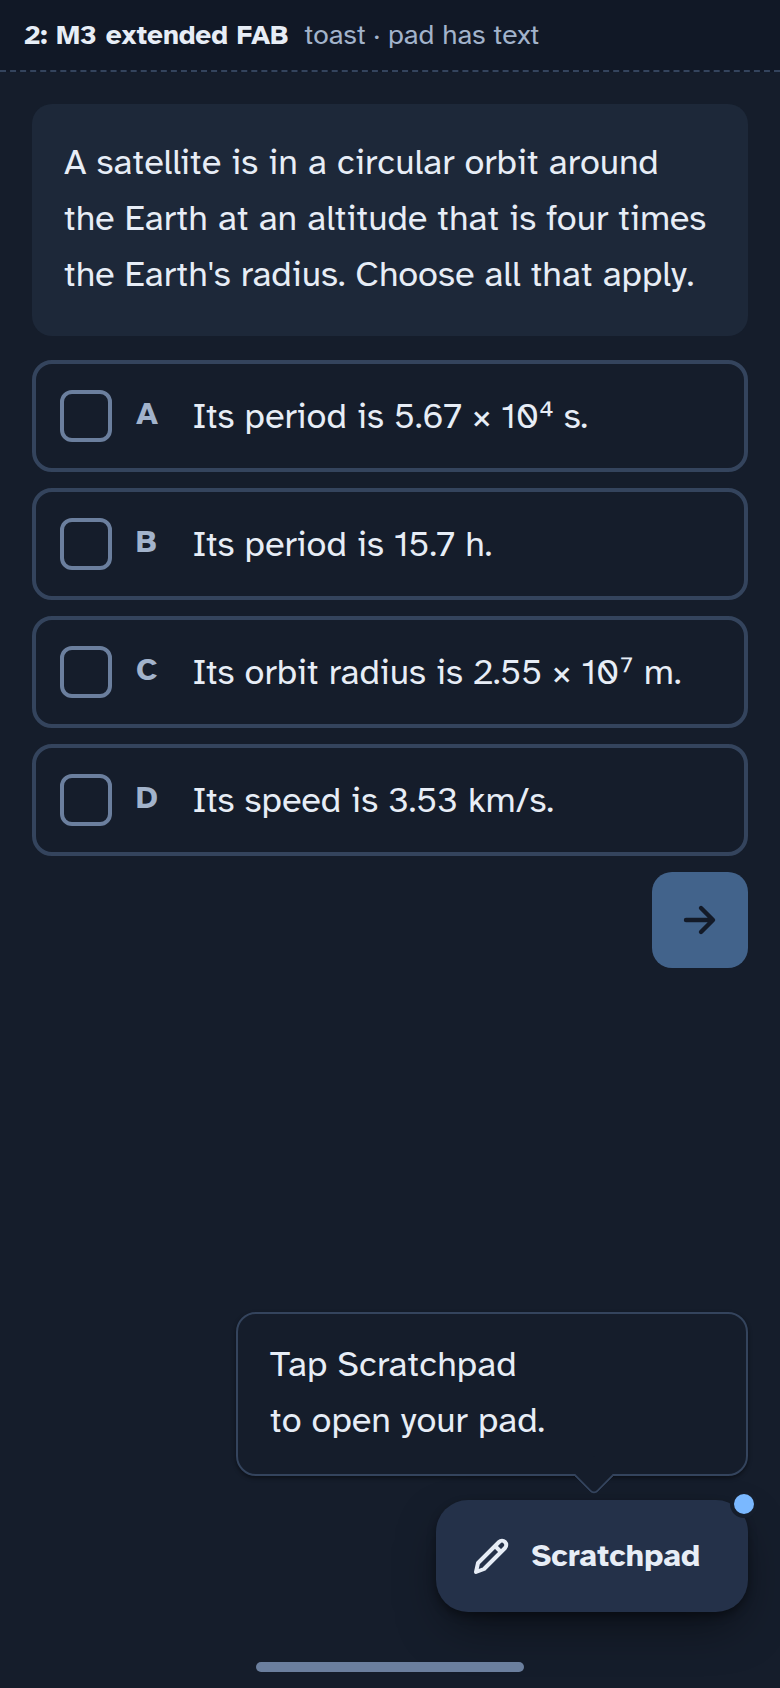
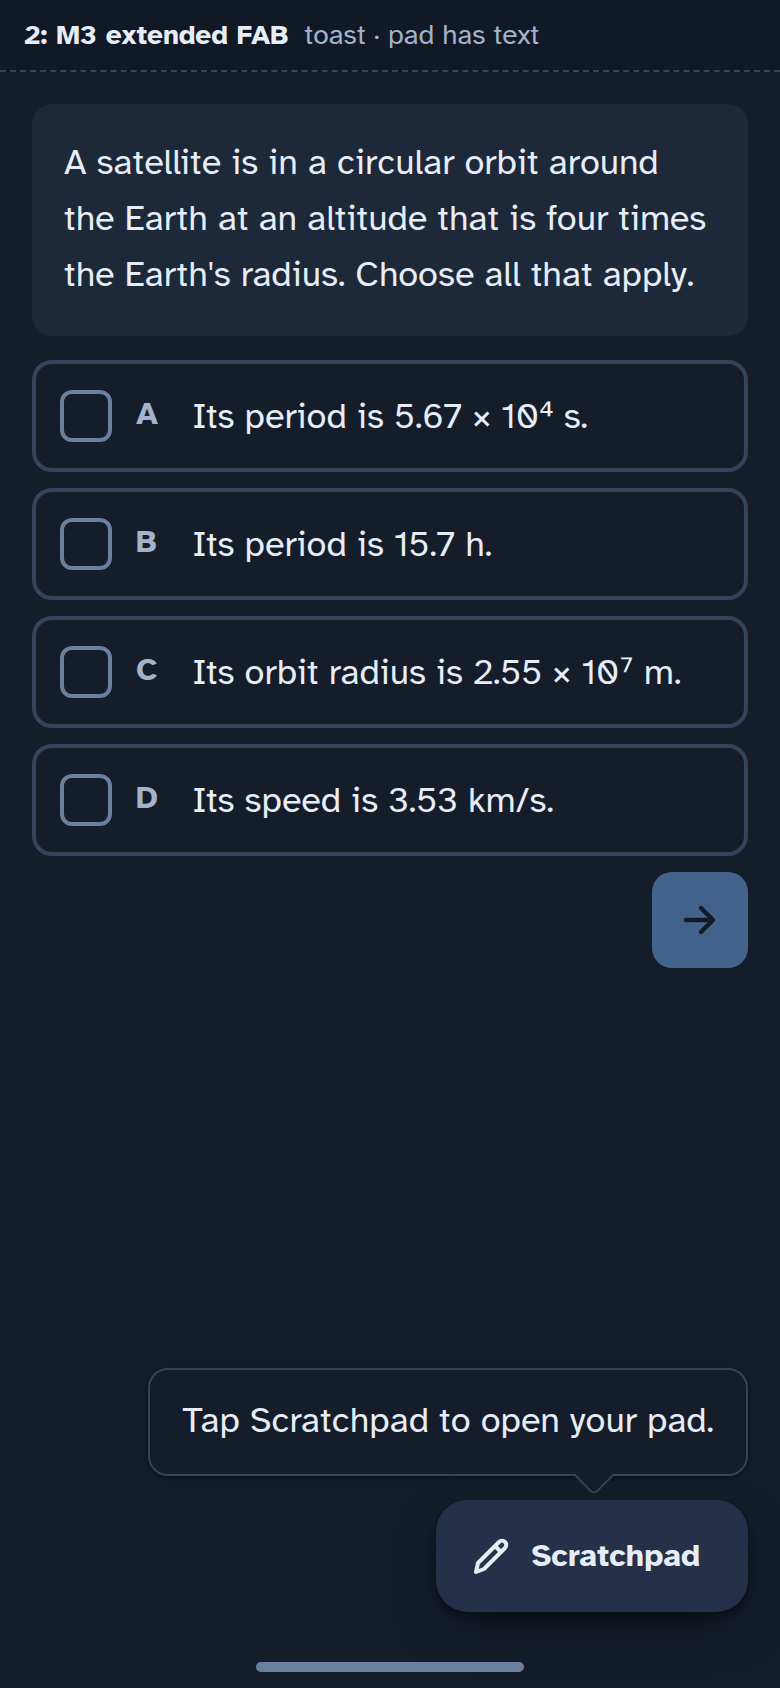
Round 3b tweaks (Tony): toast one line, centred, 1.5px border; q | a math italic 1.75rem; no dot on the Scratchpad button
Claude-Session: https://claude.ai/code/session_0133SdcyKFzp2WnequjmrzHe

Changed region(s): [[0.2462, 0.8009, 0.8, 0.8626], [0.8308, 0.8318, 0.9231, 0.8626], [0.9231, 0.8626, 0.9538, 0.8934]]

diff --git a/design/mockups/fab.html b/design/mockups/fab.html
@@ -96,8 +96,8 @@ body { padding: 0 !important; min-height: 100dvh; display: flex; justify-content
 
 /* ---------- onboarding toast (take 5f look: page paper, --line hairline) ---------- */
 /* round 3b hybrid: the app's #toast (paper, hairline, --shadow-1, --t-md 400) with its 14px caret; .up = the toast sits above its anchor, caret on the bottom edge */
-.tst { position: absolute; z-index: 35; width: max-content; max-width: 16rem; min-height: 52px; display: flex; align-items: center; padding: var(--s3) var(--s4);
-  border: 1px solid var(--line); border-radius: 10px; background: var(--paper); box-shadow: var(--shadow-1);
+.tst { position: absolute; z-index: 35; width: max-content; max-width: calc(100% - 2 * var(--s4)); min-height: 52px; display: flex; align-items: center; justify-content: center; text-align: center; padding: var(--s3) var(--s4);
+  border: 1.5px solid var(--line); border-radius: 10px; background: var(--paper); box-shadow: var(--shadow-1);   /* 1.5px: Tony, "slight thicker" */
   font-size: var(--t-md); font-weight: 400; line-height: var(--lh); text-wrap: balance; color: var(--ink); }
 .tst::before { content: ""; position: absolute; top: -8px; left: calc(var(--px, 50%) - 7px); width: 14px; height: 14px; transform: rotate(45deg);
   background: inherit; border: inherit; border-right: 0; border-bottom: 0; border-radius: 3px 0 0 0; }
@@ -111,7 +111,7 @@ body { padding: 0 !important; min-height: 100dvh; display: flex; justify-content
 .ch.wrong span:last-child { text-decoration: line-through; color: var(--muted); }
 /* q | a letter pill: one face per variant (all already shipped by the app) */
 .pill span.l { font-size: 1.5rem; line-height: 1; padding-bottom: 2px; }
-.ql1 span.l { font-family: KaTeX_Math; font-style: italic; }
+.ql1 span.l { font-family: KaTeX_Math; font-style: italic; font-size: 1.75rem; }   /* the pick, a touch bigger (Tony) */
 .ql2 span.l { font-family: KaTeX_Main; }
 .ql3 span.l { font-family: KaTeX_Main; font-style: italic; font-weight: 700; }
 .ql4 span.l { font-family: KaTeX_Fraktur; }
@@ -162,7 +162,7 @@ const PAIRS = { 1: "doc | pencil box", 2: "? bubble | check", 3: "lines | radios
 const choices = wrong => CHOICES.map(([l, t]) => `<div class="ch${l === wrong ? " wrong" : ""}"><span class="box">${l === wrong ? ico("i-x") : ""}</span><span class="lt">${l}</span><span>${t}</span></div>`).join("");
 const dot = padOn ? `<span class="dot"></span>` : "";
 function fab() {
-  if (f === 2) return `<button class="fab f2" aria-label="Show the scratchpad" aria-expanded="false">${ico("i-pen")}<span>Scratchpad</span>${dot}</button>`;
+  if (f === 2) return `<button class="fab f2" aria-label="Show the scratchpad" aria-expanded="false">${ico("i-pen")}<span>Scratchpad</span></button>`;   // no dot (round 3b: it read as noise)
   if (f === 4) return `<button class="fab f4" aria-label="Show the scratchpad" aria-expanded="false">${ico("i-chev")}${dot}</button>`;
   if (f === 5) return `<button class="fab f5" aria-label="Show the scratchpad" aria-expanded="false">${ico("i-pen")}<span class="ln${padOn ? "" : " empty"}">${padOn ? LAST : "Scratchpad"}</span></button>`;
   return `<button class="fab f${f}${f === 3 && state === "closed" && P.get("idle") ? " idle" : ""}" aria-label="Show the scratchpad" aria-expanded="false">${ico("i-pen")}${dot}</button>`;

diff --git a/design/STYLE.md b/design/STYLE.md
@@ -64,7 +64,7 @@ Contrast floor: text 4.5:1 on its real background (check `--raised` too), contro
 
 ### 2.2 Type
 
-- Families: **Atkinson Hyperlegible** (UI and prose) and **Atkinson Hyperlegible Mono** (`--mono`: typed text where columns line up: answers, scratchpad, gutter). The code box uses the proportional face (Tony). KaTeX for math. No third family. The q | a switch letters use one KaTeX face (a math face, not a UI family; pick in [MULTITASK.md](MULTITASK.md) Round 3b).
+- Families: **Atkinson Hyperlegible** (UI and prose) and **Atkinson Hyperlegible Mono** (`--mono`: typed text where columns line up: answers, scratchpad, gutter). The code box uses the proportional face (Tony). KaTeX for math. No third family. The q | a switch letters are KaTeX_Math italic at 1.75rem (a math face, not a UI family; Tony's pick, MULTITASK.md Round 3b).
 - Scale (phones; desktop raises all three):
 
 | token | px | for |
@@ -109,7 +109,7 @@ Radius follows size. Nested corners are the outer radius minus the gap.
 
 - Controls and fields: 2px `--edge`. Hover: `--muted`. Focus: `--focus`. Selected: `--c1`. Right: `--ok` solid. Wrong: `--bad` **dashed** (dash = not accepted, so it survives grayscale).
 - Surfaces have no border. A background change separates them.
-- Dividers: 1px `--line` (part rows, table rows, the stuck strip's bottom).
+- Dividers: 1px `--line` (part rows, table rows, the stuck strip's bottom). The toast's edge is the one 1.5px `--line` border.
 - No colored side stripes on anything.
 
 ### 2.7 Elevation
@@ -192,7 +192,7 @@ Nothing in the flow gets a shadow: no cards, no buttons, no list. No glows. The 
 ### Toast (`#toast`)
 
 - Two jobs, one look: the wrong-answer note ("One more try, so choose wisely.") and the new-device onboarding notes (under 10 words each, once per device).
-- Anatomy: page `--paper`, 1px `--line` hairline, `--shadow-1`, 10px radius, `--t-md` weight 400 in `--ink`, and a 14px caret that points at the thing it is about. No icon, no emoji, no yellow, no bold. `role="status"`, `aria-live="polite"`.
+- Anatomy: page `--paper`, 1.5px `--line` border (Tony: "slight thicker"), `--shadow-1`, 10px radius, `--t-md` weight 400 in `--ink`, centred, one line where it fits (up to the column minus 2 × `--s4`), and a 14px caret that points at the thing it is about. No icon, no emoji, no yellow, no bold. `role="status"`, `aria-live="polite"`.
 - Placement: `fixed`, next to its anchor, so nothing moves. Under the box: caret up. Above the anchor (the Scratchpad button): caret on the bottom edge. MC row: it lies on the struck choice's text (dead text) with the caret pointing at the X badge. Never cover a live control.
 - Timing: in `--d-move`, stays 2.5 s, closes on tap or Esc. History: [TOAST.md](TOAST.md).
 - Don't: use it for "Saved", "Correct" or anything already shown on the control; stack two toasts (a wrong-answer note wins over onboarding); a tinted or yellow slab.
@@ -228,7 +228,7 @@ Nothing in the flow gets a shadow: no cards, no buttons, no list. No glows. The 
 
 ### Scratchpad button (`#padFab`, phone only)
 
-- Anatomy: M3 extended FAB. `i-pen` + "Scratchpad", 56px tall, 16px radius, `--raised`, `--shadow-3`, `--ink`, `--t-sm` bold. A small `--c1` dot when the pad has text. `aria-expanded`.
+- Anatomy: M3 extended FAB. `i-pen` + "Scratchpad", 56px tall, 16px radius, `--raised`, `--shadow-3`, `--ink`, `--t-sm` bold. No badge or dot (Tony, round 3b: it read as noise). `aria-expanded`.
 - Behavior: tap opens the pad page. You can drag it; on release it snaps to the left or right edge, never under the dock or the home indicator, and never rests over an answer control. Hidden while an answer field has focus. Its place is remembered per device.
 - Why: one tap to the pad, and the pad never covers the problem.
 

diff --git a/design/MULTITASK.md b/design/MULTITASK.md
@@ -219,7 +219,8 @@ Shots (390x844, DPR 2): `mt3-fab-{1..5}-{closed,drag,toast}-390.png`, `mt3-fab-3
 ## Round 3b (Oct 2 ~22:05 PT, Tony's picks)
 
 - **Button: 2**, pen + "Scratchpad" (M3 extended FAB). Rounds 1/3/4/5 stay as history shots.
-- **Toggle: lowercase q | a as text**, not icons. Faces tried (all already shipped, zero new bytes): `?q=1..7` = KaTeX_Math italic, KaTeX_Main, KaTeX_Main bold italic, KaTeX_Fraktur (the one wink), KaTeX_Typewriter, Atkinson Mono 700, Atkinson 700. **Pick: 1 KaTeX_Math italic** — it is how *q* and *a* already look in the problem text. Runner-up: 5 Typewriter.
+- **Toggle: lowercase q | a as text**, not icons. Faces tried (all already shipped, zero new bytes): `?q=1..7` = KaTeX_Math italic, KaTeX_Main, KaTeX_Main bold italic, KaTeX_Fraktur (the one wink), KaTeX_Typewriter, Atkinson Mono 700, Atkinson 700. **Pick: 1 KaTeX_Math italic** — it is how *q* and *a* already look in the problem text. Runner-up: 5 Typewriter. **Tony locked 1 (~22:50), a touch bigger: 1.75rem.**
+- Tony ~22:50: toast text layout was ugly (it wrapped mid-phrase at 16rem) → one line, centred, width up to the column; border 1px → 1.5px; the Scratchpad button's dot removed (it read as noise).
 - **Toast: hybrid** = the shipped take-5f look (page `--paper`, 1px `--line`, `--shadow-1`, `--t-md` 400) + its 14px caret, on every toast: under its anchor (caret up), above it (`.up`, caret down: the onboarding note over the button), and on the MC row (`.side`: lies on the struck choice's text, caret points left at the X badge, so no live choice is covered).
 - Onboarding copy: "Tap Scratchpad to open your pad." · "Switch question and answer here." · "Drag the button anywhere."
 - Impeccable live, 7 states at 390: 0, except the MC row state's "text covered by an opaque element" = the struck choice under the toast, on purpose (dead text; the app's take 5f does the same).
